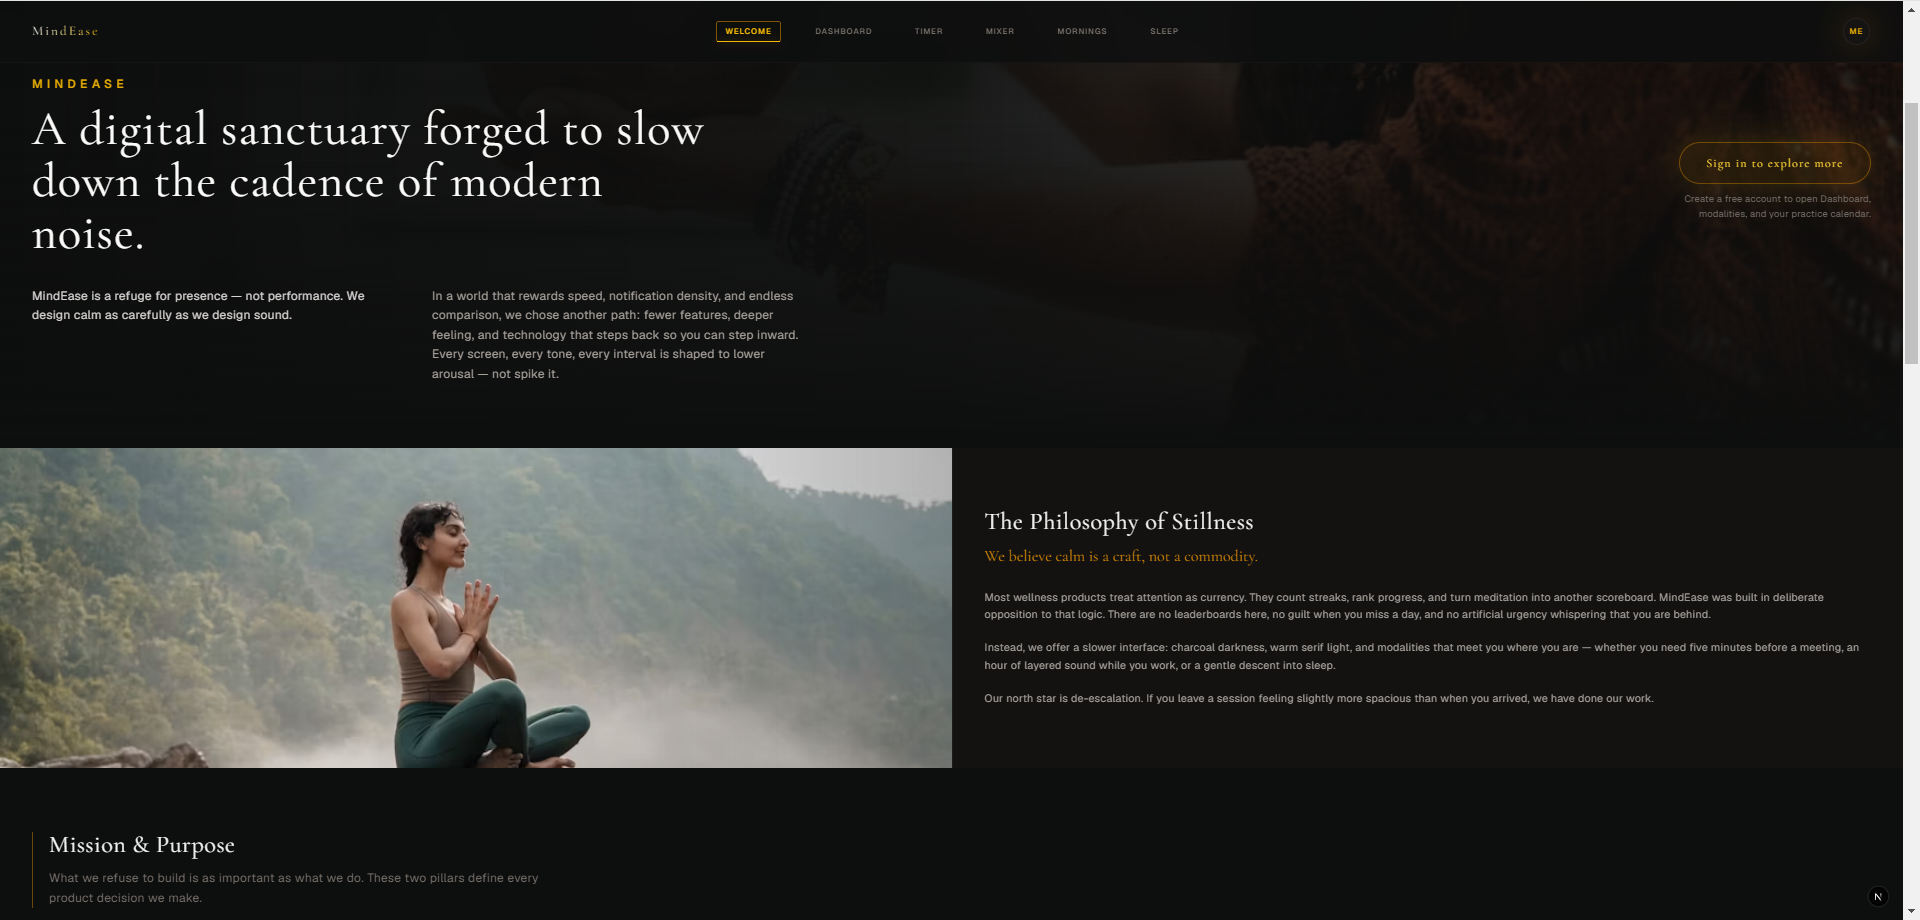
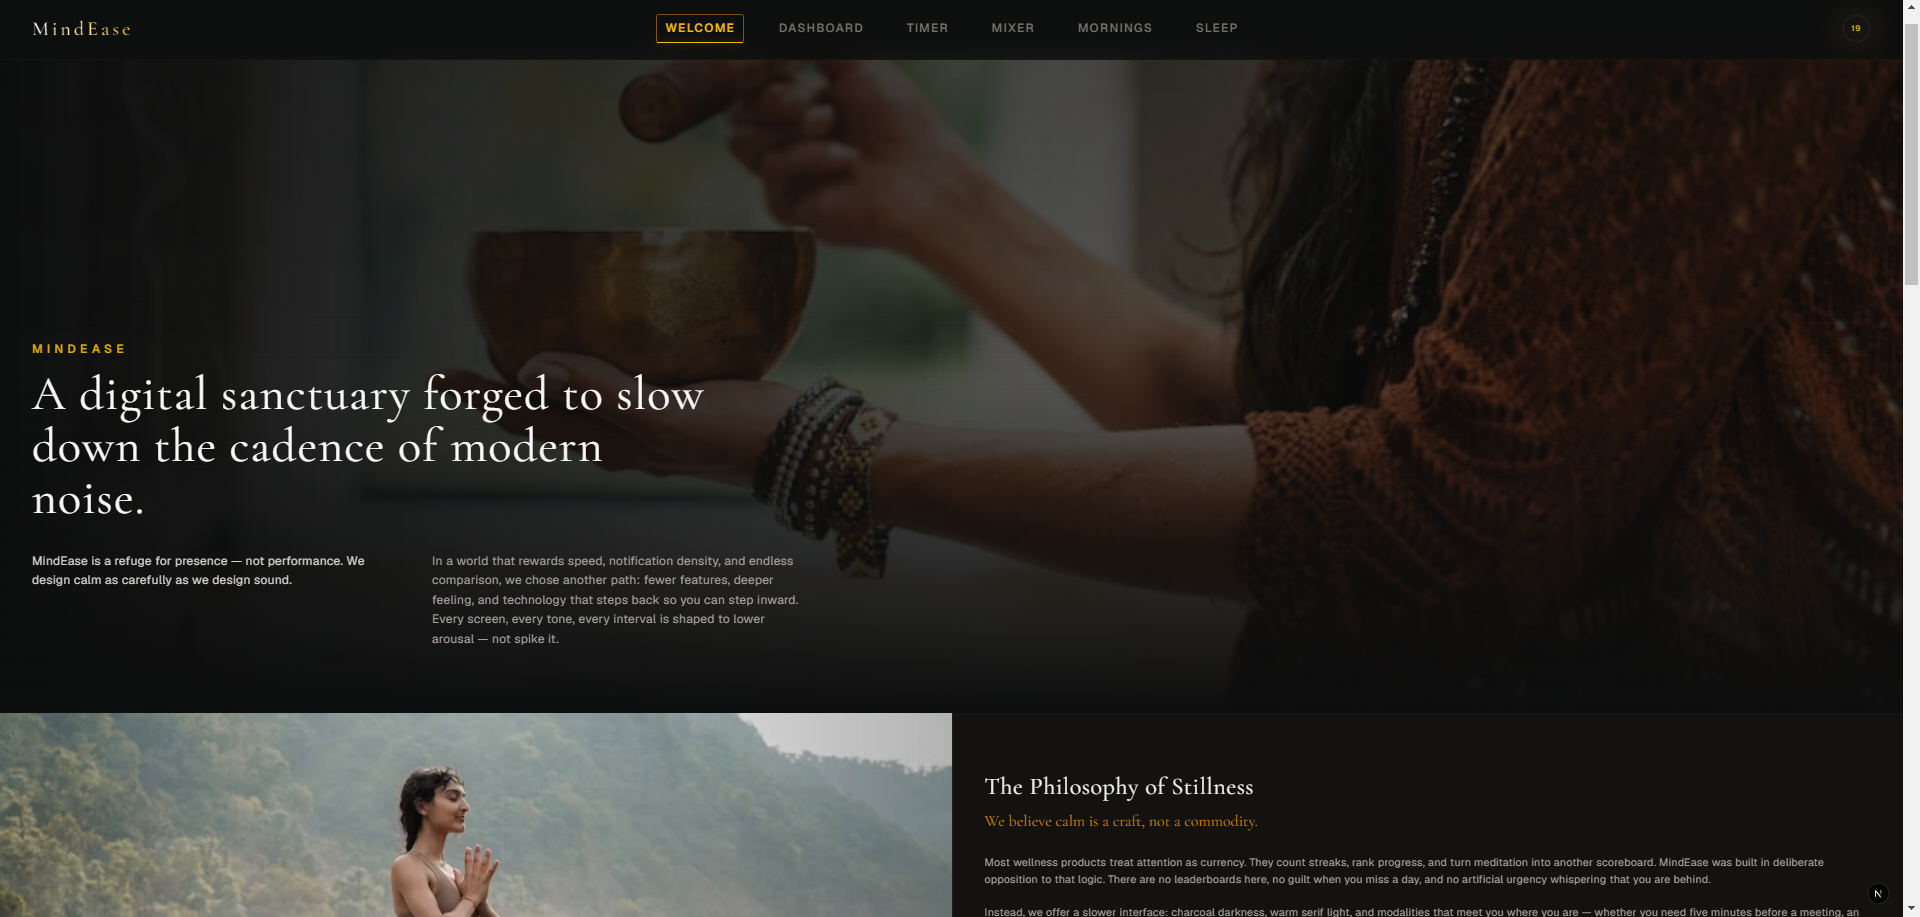
update readme

diff --git a/README.md b/README.md
@@ -8,6 +8,14 @@ A meditation web app with a dark, minimal “sanctuary” aesthetic. Guests land
   <img src="public/screenshots/1.png" alt="Welcome" width="600" />
 </p>
 
+<p align="center">
+  <img src="public/screenshots/welcome2.png" alt="Welcome" width="600" />
+</p>
+
+<p align="center">
+  <img src="public/screenshots/welcome3.png" alt="Welcome" width="600" />
+</p>
+
 ### Sign in & Sign up Page
 <p align="center">
   <img src="public/screenshots/signin.png" alt="Sign in/Sign up" width="600" />
@@ -52,13 +60,14 @@ Built with **Next.js 16** (App Router), **React 19**, **Tailwind CSS 4**, **Pris
 | Area | Description |
 |------|-------------|
 | **Welcome (`/`)** | Full About experience; guests see **Sign in to explore more** → `/login?next=/dashboard` |
-| **Dashboard** | Top Pick (Daily Pick article), Video Spotlight, Made For You, Zen Calendar (practice history), Quote of the Day |
+| **Dashboard** | Top Pick (Daily Pick article), Video Spotlight, Made For You, Zen Calendar (practice history + per-day notes), Quote of the Day |
 | **Daily Pick (`/daily-pick`)** | Daily featured article sourced from RSS, rendered in-app with hero image + extracted main content, plus reference link to original |
 | **Zen Timer** | Preset/custom duration, layered ambient mixer (Web Audio API), pause/continue, progress bar, session log + journal modal |
 | **MIXER / MORNINGS / SLEEP** | Category video libraries (YouTube playback) with cover art and intros |
 | **Courses** | 3-day foundation course with day gating and progress |
 | **Daily Zen** | Weekday-themed guided practice |
-| **Profile** | Profile settings (display name/username/avatar, password) |
+| **Video detail** | Leave comments under sessions (name + avatar + comment body) |
+| **Profile** | Profile settings (display name/username/avatar, password) + Watch History grid |
 | **Auth** | Email/password sign-in, sign-up, magic link via Supabase |
 
 ## Tech stack
@@ -86,7 +95,10 @@ src/
   components/             # UI by domain (dashboard, timer, about, courses, streaming, auth)
   hooks/                  # useZenTimer, useAudioMixer, useChime
   lib/                    # Prisma, Supabase, queries, content
+    comments/             # Video detail comments
     daily-pick/           # RSS fetch + content extraction (Readability)
+    watch-history/        # Watch history queries/types
+    zen-calendar/         # Calendar aggregation + notes
 prisma/
   schema.prisma           # Data model
   seed.ts                 # MVP seed data + library sync/cleanup
@@ -194,6 +206,9 @@ Dashboard streaming (Spotlight / Made For You) and course/daily content are also
 
 - `GET /api/meditate?category=` — category library cards
 - `GET /api/streaming`, `GET /api/streaming/[id]` — streaming catalog
+- `GET /api/watch-history`, `POST /api/watch-history` — profile watch history + play tracking
+- `GET /api/media/[id]/comments`, `POST /api/media/[id]/comments` — video detail comments
+- `PUT /api/zen-calendar/notes` — save per-day Zen Calendar note
 - `POST /api/meditate/log` — log timer/course sessions
 - `POST /api/meditate/journal` — attach journal to a log
 - `GET /api/ambient-tracks` — Zen Timer soundscape layers
